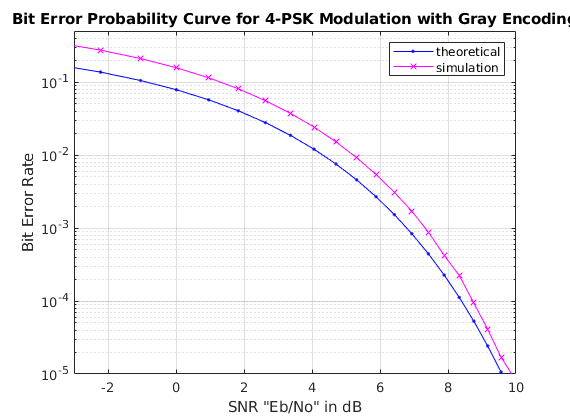
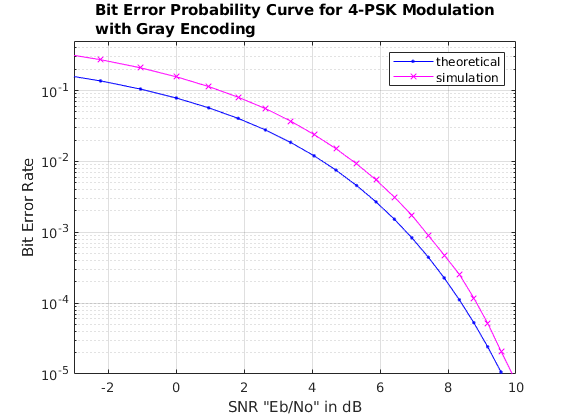
fix plot titles

Changed region(s): [[0.0, 0.0, 1.0, 0.8976]]

diff --git a/p2_4psk_seq.m b/p2_4psk_seq.m
@@ -62,4 +62,4 @@ grid on
 legend('theoretical', 'simulation');
 xlabel('SNR "Eb/No" in dB');
 ylabel('Bit Error Rate');
-title('Bit Error Probability Curve for 4-PSK Modulation with Sequential Encoding');
+title('Bit Error Probability Curve for 4-PSK Modulation\newlinewith Sequential Encoding');

diff --git a/p2_4psk_gray.m b/p2_4psk_gray.m
@@ -71,4 +71,4 @@ grid on
 legend('theoretical', 'simulation');
 xlabel('SNR "Eb/No" in dB');
 ylabel('Bit Error Rate');
-title('Bit Error Probability Curve for 4-PSK Modulation with Gray Encoding');
+title('Bit Error Probability Curve for 4-PSK Modulation\newlinewith Gray Encoding');
